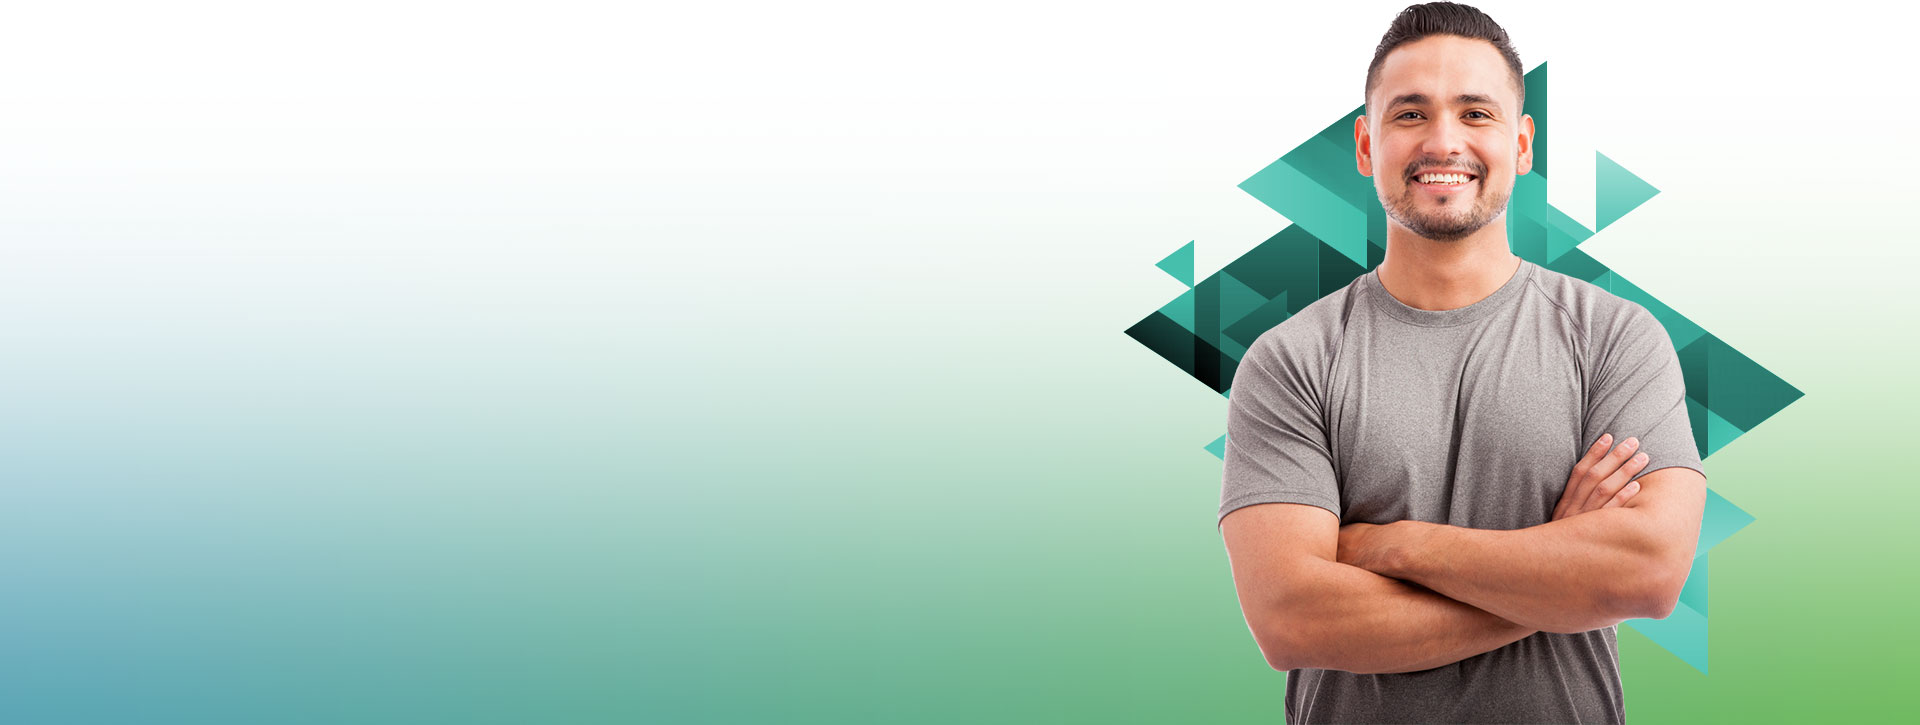
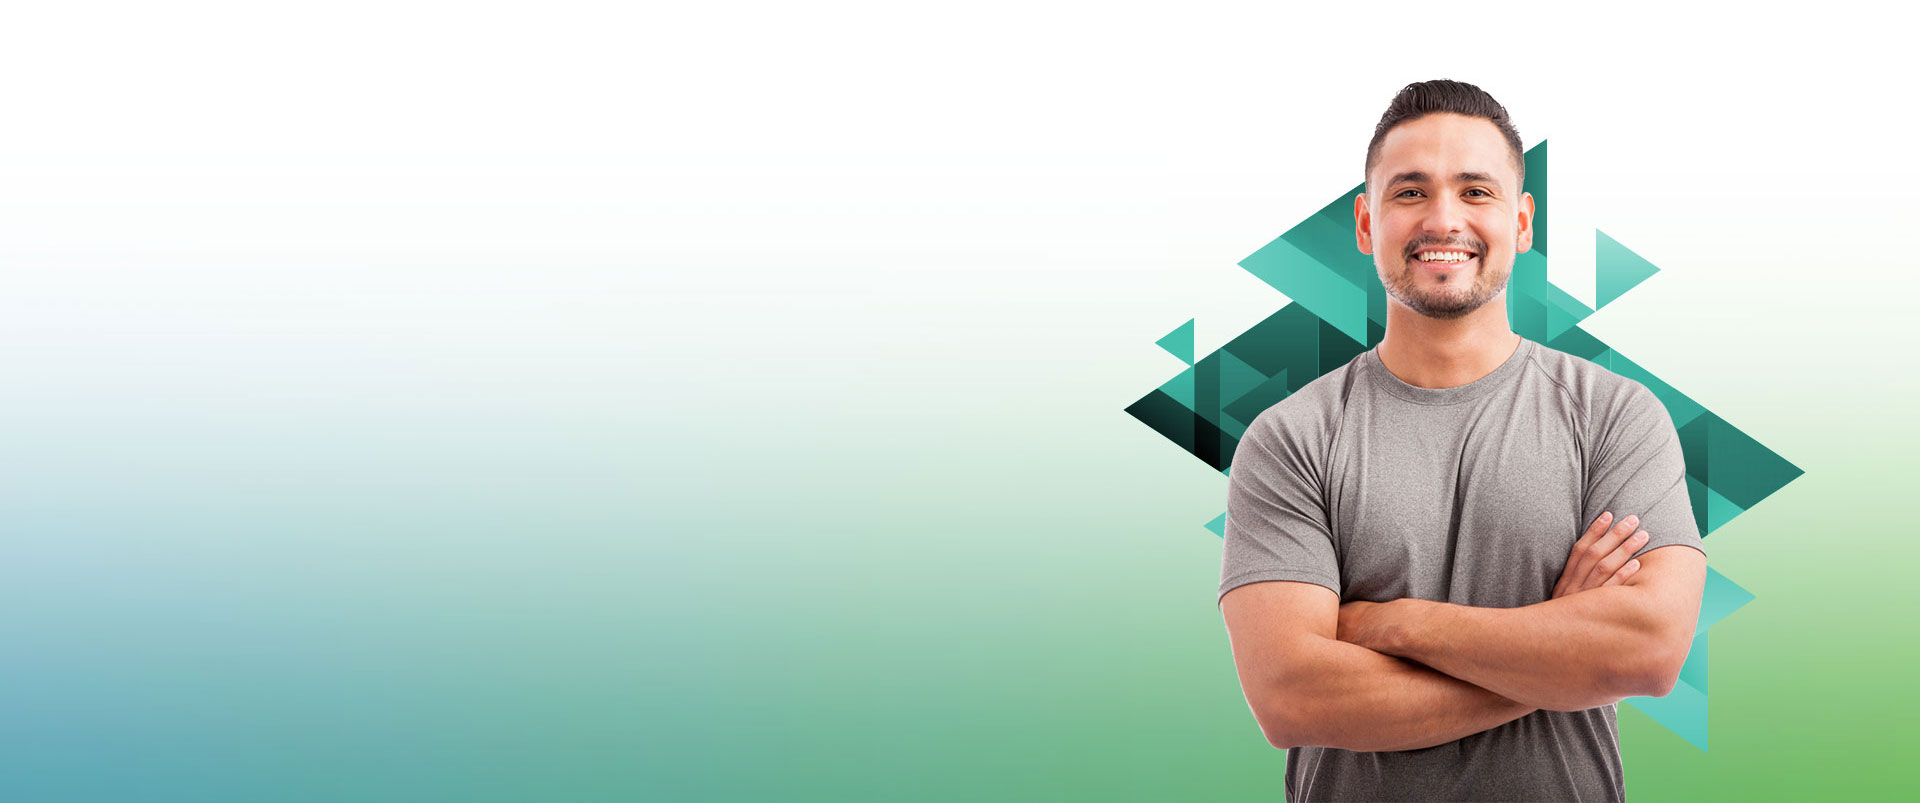
правки от димы

Changed region(s): [[0.5625, 0.0, 0.9375, 0.971], [0.875, 0.9103, 0.9062, 0.9407], [0.625, 0.8497, 0.6562, 0.88]]

diff --git a/src/sass/block/professional.scss b/src/sass/block/professional.scss
@@ -38,6 +38,7 @@
 .professional__footer {
     display: flex;
     align-items: center;
+    max-width: 750px;
     padding: 35px 45px;
 }
 
@@ -56,7 +57,7 @@
 .professional__media {
     position: absolute;
     right: 30px;
-    bottom: -120px;
+    bottom: -60px;
 }
 
 @media (max-width: 1310px) {
@@ -74,6 +75,10 @@
                 max-width: 455px;
             }
         }
+    }
+
+    .professional__footer {
+        max-width: 470px;
     }
 
     .professional__id {
@@ -102,6 +107,7 @@
     .professional__footer {
         flex-direction: column;
         align-items: flex-start;
+        max-width: 260px;
         padding: 30px 15px;
     }
 

diff --git a/src/sass/block/face.scss b/src/sass/block/face.scss
@@ -27,6 +27,10 @@
     & mark {
         display: block;
         color: #82d061;
+        background-color: #82d061;
+        background-image: linear-gradient(90deg, rgba(90, 165, 179, 1) 0%, rgba(111, 184, 96, 1) 100%);
+        -webkit-background-clip: text;
+        -webkit-text-fill-color: transparent;
     }
 }
 

diff --git a/src/sass/core/section.scss b/src/sass/core/section.scss
@@ -44,6 +44,8 @@
     }
 
     &_professional {
+        padding-top: 60px;
+        padding-bottom: 60px;
         background-image: url("../media/section/professional.jpg");
         background-position: center;
         background-size: cover;

diff --git a/src/sass/block/effects.scss b/src/sass/block/effects.scss
@@ -58,6 +58,7 @@
             }
 
             &:nth-child(5) {
+                margin-left: auto;
                 background-image: url("../media/effects/img-5.jpg");
             }
         }
